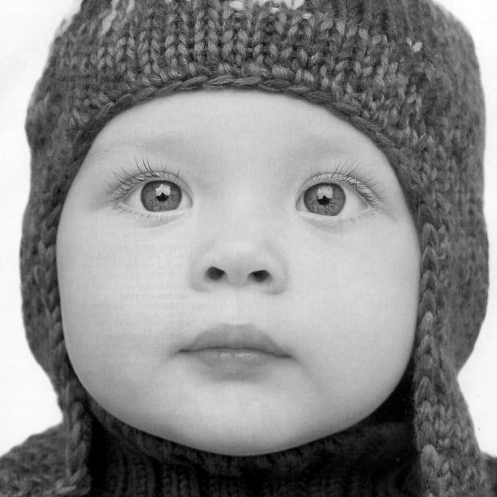
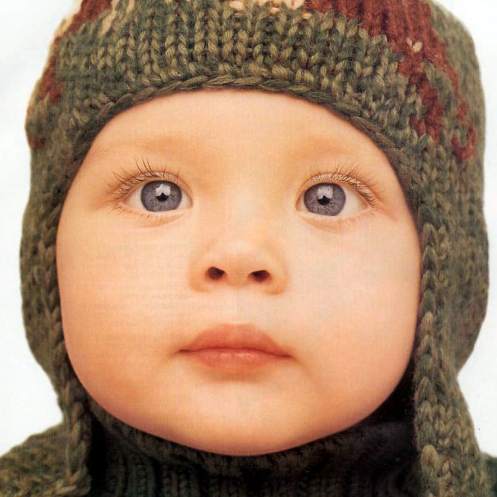
Added RGB Support. (Beta version, correcness to be veryfied.)

diff --git a/utils.py b/utils.py
@@ -8,7 +8,7 @@ import h5py
 import random
 import matplotlib.pyplot as plt
 
-from PIL import Image  # for loading images as YCbCr format
+from PIL import Image, ImageOps  # for loading images as YCbCr format
 import scipy.misc
 import scipy.ndimage
 import numpy as np
@@ -43,15 +43,25 @@ def preprocess(path, scale=3):
     input_: image applied bicubic interpolation (low-resolution)
     label_: image with original resolution (high-resolution)
   """
-  image = imread(path, is_grayscale=True)
+  image = imread(path, FLAGS.is_grayscale)
   label_ = modcrop(image, scale)
 
-  # Must be normalized
-  image = image / 255.
-  label_ = label_ / 255.
+  input_ = label_
 
-  input_ = scipy.ndimage.interpolation.zoom(label_, (1./scale), prefilter=False)
-  input_ = scipy.ndimage.interpolation.zoom(input_, (scale/1.), prefilter=False)    
+  if FLAGS.is_grayscale:
+    input_ = Image.fromarray(label_)
+    input_.thumbnail((input_.size[0]/scale, input_.size[1]/scale))
+    input_ = input_.resize((label_.shape[1], label_.shape[0]), resample=Image.BICUBIC)
+    input_ = np.array(input_.getdata(), np.uint8).reshape((label_.shape[0], label_.shape[1], 1))
+  else:
+    input_ = Image.fromarray(label_, mode='RGB')
+    input_.thumbnail((input_.size[0]/scale, input_.size[1]/scale))
+    input_ = input_.resize((label_.shape[1], label_.shape[0]), resample=Image.BICUBIC)
+    input_ = np.array(input_.getdata(), np.uint8).reshape((label_.shape[0], label_.shape[1], 3))
+
+  # Must be normalized
+  label_ = label_ / 255.
+  input_ = input_ / 255.
 
   return input_, label_
 
@@ -94,7 +104,8 @@ def imread(path, is_grayscale=True):
   if is_grayscale:
     return scipy.misc.imread(path, flatten=True, mode='YCbCr').astype(np.float)
   else:
-    return scipy.misc.imread(path, mode='YCbCr').astype(np.float)
+    # return scipy.misc.imread(path, mode='YCbCr').astype(np.float)
+    return scipy.misc.imread(path, mode = 'RGB')
 
 def modcrop(image, scale=3):
   """
@@ -135,22 +146,31 @@ def input_setup(sess, config):
     for i in xrange(len(data)):
       input_, label_ = preprocess(data[i], config.scale)
 
-      if len(input_.shape) == 3:
+      if len(input_.shape) == 3:  # RGB mode
+
         h, w, _ = input_.shape
-      else:
+        for x in range(0, h-config.image_size+1, config.stride):
+          for y in range(0, w-config.image_size+1, config.stride):
+            sub_input = input_[x:x+config.image_size, y:y+config.image_size, :] # [33 x 33]
+            sub_label = label_[x+padding:x+padding+config.label_size, y+padding:y+padding+config.label_size, :] # [21 x 21]
+
+            sub_input_sequence.append(sub_input)
+            sub_label_sequence.append(sub_label)
+
+      else:  # grayscale mode
+
         h, w = input_.shape
+        for x in range(0, h-config.image_size+1, config.stride):
+          for y in range(0, w-config.image_size+1, config.stride):
+            sub_input = input_[x:x+config.image_size, y:y+config.image_size] # [33 x 33]
+            sub_label = label_[x+padding:x+padding+config.label_size, y+padding:y+padding+config.label_size] # [21 x 21]
 
-      for x in range(0, h-config.image_size+1, config.stride):
-        for y in range(0, w-config.image_size+1, config.stride):
-          sub_input = input_[x:x+config.image_size, y:y+config.image_size] # [33 x 33]
-          sub_label = label_[x+padding:x+padding+config.label_size, y+padding:y+padding+config.label_size] # [21 x 21]
+            # Make channel value
+            sub_input = sub_input.reshape([config.image_size, config.image_size, 1])  
+            sub_label = sub_label.reshape([config.label_size, config.label_size, 1])
 
-          # Make channel value
-          sub_input = sub_input.reshape([config.image_size, config.image_size, 1])  
-          sub_label = sub_label.reshape([config.label_size, config.label_size, 1])
-
-          sub_input_sequence.append(sub_input)
-          sub_label_sequence.append(sub_label)
+            sub_input_sequence.append(sub_input)
+            sub_label_sequence.append(sub_label)
 
   else:
 
@@ -159,38 +179,63 @@ def input_setup(sess, config):
     out_input_sequence = []
     out_label_sequence = []
 
-    if len(input_.shape) == 3:
+    if len(input_.shape) == 3:  # RGB mode
       h, w, _ = input_.shape
+      # Numbers of sub-images in height and width of image are needed to compute merge operation.
+      nx = ny = 0 
+      for x in range(0, h-config.image_size+1, config.stride):
+        nx += 1; ny = 0
+        for y in range(0, w-config.image_size+1, config.stride):
+          ny += 1
+          sub_input = input_[x:x+config.image_size, y:y+config.image_size, :] # [33 x 33]
+          sub_label = label_[x+padding:x+padding+config.label_size, y+padding:y+padding+config.label_size, :] # [21 x 21]
+
+          # segement the input image in the same way as the label image, and append the segments into lists
+          out_input_sequence.append(input_[x+padding:x+padding+config.label_size, y+padding:y+padding+config.label_size, :])
+          out_label_sequence.append(sub_label)
+
+          sub_input_sequence.append(sub_input)
+          sub_label_sequence.append(sub_label)
+
+      # output original image and bicubic interpolated images
+      sample_path = os.path.join(os.getcwd(), config.sample_dir)
+      origin_path = os.path.join(sample_path, str(config.sample_num) + "-test_image(original).png")
+      out_label = merge(np.asarray(out_label_sequence), [nx, ny])
+      imsave(out_label, origin_path)
+      bicubic_path = os.path.join(sample_path, str(config.sample_num) + "-test_image(bicubic).png")
+      out_input = merge(np.asarray(out_input_sequence), [nx, ny])
+      imsave(out_input, bicubic_path)
+
     else:
       h, w = input_.shape
 
-    # Numbers of sub-images in height and width of image are needed to compute merge operation.
-    nx = ny = 0 
-    for x in range(0, h-config.image_size+1, config.stride):
-      nx += 1; ny = 0
-      for y in range(0, w-config.image_size+1, config.stride):
-        ny += 1
-        sub_input = input_[x:x+config.image_size, y:y+config.image_size] # [33 x 33]
-        sub_label = label_[x+padding:x+padding+config.label_size, y+padding:y+padding+config.label_size] # [21 x 21]
+      # Numbers of sub-images in height and width of image are needed to compute merge operation.
+      nx = ny = 0 
+      for x in range(0, h-config.image_size+1, config.stride):
+        nx += 1; ny = 0
+        for y in range(0, w-config.image_size+1, config.stride):
+          ny += 1
+          sub_input = input_[x:x+config.image_size, y:y+config.image_size] # [33 x 33]
+          sub_label = label_[x+padding:x+padding+config.label_size, y+padding:y+padding+config.label_size] # [21 x 21]
 
-        sub_input = sub_input.reshape([config.image_size, config.image_size, 1])  
-        sub_label = sub_label.reshape([config.label_size, config.label_size, 1])
+          sub_input = sub_input.reshape([config.image_size, config.image_size, 1])  
+          sub_label = sub_label.reshape([config.label_size, config.label_size, 1])
 
-        # segement the input image in the same way as the label image, and append the segments into lists
-        out_input_sequence.append(input_[x+padding:x+padding+config.label_size, y+padding:y+padding+config.label_size].reshape([config.label_size, config.label_size, 1]))
-        out_label_sequence.append(sub_label)
+          # segement the input image in the same way as the label image, and append the segments into lists
+          out_input_sequence.append(input_[x+padding:x+padding+config.label_size, y+padding:y+padding+config.label_size].reshape([config.label_size, config.label_size, 1]))
+          out_label_sequence.append(sub_label)
 
-        sub_input_sequence.append(sub_input)
-        sub_label_sequence.append(sub_label)
+          sub_input_sequence.append(sub_input)
+          sub_label_sequence.append(sub_label)
 
-    # output original image and bicubic interpolated images
-    sample_path = os.path.join(os.getcwd(), config.sample_dir)
-    origin_path = os.path.join(sample_path, str(config.sample_num) + "-test_image(original).png")
-    out_label = merge(np.asarray(out_label_sequence), [nx, ny])
-    imsave(out_label.squeeze(), origin_path)
-    bicubic_path = os.path.join(sample_path, str(config.sample_num) + "-test_image(bicubic).png")
-    out_input = merge(np.asarray(out_input_sequence), [nx, ny])
-    imsave(out_input.squeeze(), bicubic_path)
+      # output original image and bicubic interpolated images
+      sample_path = os.path.join(os.getcwd(), config.sample_dir)
+      origin_path = os.path.join(sample_path, str(config.sample_num) + "-test_image(original).png")
+      out_label = merge(np.asarray(out_label_sequence), [nx, ny])
+      imsave(out_label.squeeze(), origin_path)
+      bicubic_path = os.path.join(sample_path, str(config.sample_num) + "-test_image(bicubic).png")
+      out_input = merge(np.asarray(out_input_sequence), [nx, ny])
+      imsave(out_input.squeeze(), bicubic_path)
 
 
   """
@@ -198,8 +243,8 @@ def input_setup(sess, config):
   (sub_input_sequence[0]).shape : (33, 33, 1)
   """
   # Make list to numpy array. With this transform
-  arrdata = np.asarray(sub_input_sequence) # [?, 33, 33, 1]
-  arrlabel = np.asarray(sub_label_sequence) # [?, 21, 21, 1]
+  arrdata = np.asarray(sub_input_sequence) # [?, 33, 33, 1 or 3]
+  arrlabel = np.asarray(sub_label_sequence) # [?, 21, 21, 1 or 3]
 
   make_data(sess, arrdata, arrlabel)
 
@@ -226,8 +271,10 @@ def merge(images, size):
   nx, ny = size[0], size[1]
   stride = FLAGS.stride
   # print stride
-
   img = np.zeros((h+stride*(nx-1), w+stride*(ny-1), 1))
+  if not FLAGS.is_grayscale:
+    img = np.zeros((h+stride*(nx-1), w+stride*(ny-1), 3))
+
   for idx, image in enumerate(images):
     i = (idx / ny) * stride
     j = (idx % ny) * stride

diff --git a/model.py b/model.py
@@ -19,17 +19,17 @@ class SRCNN(object):
                image_size=33,
                label_size=21, 
                batch_size=128,
-               c_dim=1, 
+               is_grayscale = False,
                checkpoint_dir=None, 
                sample_dir=None):
 
     self.sess = sess
-    self.is_grayscale = (c_dim == 1)
+    self.is_grayscale = is_grayscale
     self.image_size = image_size
     self.label_size = label_size
     self.batch_size = batch_size
 
-    self.c_dim = c_dim
+    self.c_dim = 1 if is_grayscale else 3
 
     self.checkpoint_dir = checkpoint_dir
     self.sample_dir = sample_dir
@@ -42,20 +42,21 @@ class SRCNN(object):
     self.labels = tf.placeholder(tf.float32, [None, self.label_size, self.label_size, self.c_dim], name='labels')
     
     self.weights = {
-      'w1': tf.Variable(tf.random_normal([9, 9, 1, 64], stddev=1e-3), name='w1'),
+      'w1': tf.Variable(tf.random_normal([9, 9, self.c_dim, 64], stddev=1e-3), name='w1'),
       'w2': tf.Variable(tf.random_normal([1, 1, 64, 32], stddev=1e-3), name='w2'),
-      'w3': tf.Variable(tf.random_normal([5, 5, 32, 1], stddev=1e-3), name='w3')
+      'w3': tf.Variable(tf.random_normal([5, 5, 32, self.c_dim], stddev=1e-3), name='w3')
     }
     self.biases = {
       'b1': tf.Variable(tf.zeros([64]), name='b1'),
       'b2': tf.Variable(tf.zeros([32]), name='b2'),
-      'b3': tf.Variable(tf.zeros([1]), name='b3')
+      'b3': tf.Variable(tf.zeros([self.c_dim]), name='b3')
     }
 
     self.pred = self.model()
 
     # Loss function (MSE)
-    self.loss = tf.reduce_mean(tf.square(self.labels - self.pred))
+    # self.loss = tf.reduce_mean(tf.square(self.labels - self.pred))
+    self.loss = tf.losses.mean_squared_error(self.labels, self.pred)
 
     self.saver = tf.train.Saver()
 
@@ -103,8 +104,8 @@ class SRCNN(object):
           if counter % 10 == 0:
             print("Epoch: [%2d], step: [%2d], time: [%4.4f], loss: [%.8f]" \
               % (self.epoch_num+1, counter, time.time()-start_time, err))
-
-        self.save(config.checkpoint_dir, self.epoch_num)
+        if self.epoch_num % 10 == 0:
+          self.save(config.checkpoint_dir, self.epoch_num)
         self.epoch_num += 1
 
     else:
@@ -112,7 +113,10 @@ class SRCNN(object):
       result = self.pred.eval({self.images: train_data, self.labels: train_label})
       result = merge(result, [nx, ny])
       # print "Before squeeze", result.shape
-      result = result.squeeze()
+      if config.is_grayscale:
+        result = result.squeeze()
+      # else:
+      #   result *= 255
       # print "After squeeze", result.shape
       image_path = os.path.join(os.getcwd(), config.sample_dir)
       image_path = os.path.join(image_path, str(config.sample_num) + "-test_image.png")

diff --git a/sample/compute_psnr.py b/sample/compute_psnr.py
@@ -1,20 +1,19 @@
 from scipy import misc
 from skimage.measure import compare_psnr
+import argparse
 
-def compute_psnr():
+def compute_psnr(is_grayscale):
 	for i in range(5):
-		# read image
-		ori_image = misc.imread(str(i)+"-test_image(original).png")
-		bic_image = misc.imread(str(i)+"-test_image(bicubic).png")
-		res_image = misc.imread(str(i)+"-test_image.png")
-
-		# crop original image
-		ori_h, ori_w = ori_image.shape
-		res_h, res_w = res_image.shape
-		margin_h = (ori_h - res_h) // 2
-		margin_w = (ori_w - res_w) // 2
-		ori_image = ori_image[margin_h:res_h+margin_h, margin_w:res_w+margin_w]
-		bic_image = bic_image[margin_h:res_h+margin_h, margin_w:res_w+margin_w]
+		if is_grayscale:
+			# read image in grayscale
+			ori_image = misc.imread(str(i)+"-test_image(original).png")
+			bic_image = misc.imread(str(i)+"-test_image(bicubic).png")
+			res_image = misc.imread(str(i)+"-test_image.png")
+		else:
+			# read image in RGB
+			ori_image = misc.imread(str(i)+"-test_image(original).png", mode='RGB')
+			bic_image = misc.imread(str(i)+"-test_image(bicubic).png", mode='RGB')
+			res_image = misc.imread(str(i)+"-test_image.png", mode='RGB')
 
 		# compute psnr and print
 		print "For Image %d: " % (i)
@@ -22,4 +21,7 @@ def compute_psnr():
 		print "PSNR between Original and Result Image: %f" % (compare_psnr(ori_image, res_image))
 
 if __name__ == '__main__':
-	compute_psnr()
+	parser = argparse.ArgumentParser(description='Compute the PSNR between original images and bicubic interpolated images, as well as between original images and test images.')
+	parser.add_argument('--is_grayscale', default=False, type=bool)
+	args = parser.parse_args()
+	compute_psnr(args.is_grayscale)

diff --git a/main.py b/main.py
@@ -13,7 +13,8 @@ flags.DEFINE_integer("batch_size", 128, "The size of batch images [128]")
 flags.DEFINE_integer("image_size", 33, "The size of image to use [33]")
 flags.DEFINE_integer("label_size", 21, "The size of label to produce [21]")
 flags.DEFINE_float("learning_rate", 1e-4, "The learning rate of gradient descent algorithm [1e-4]")
-flags.DEFINE_integer("c_dim", 1, "Dimension of image color. [1]")
+# flags.DEFINE_integer("c_dim", 1, "Dimension of image color. [1]")
+flags.DEFINE_boolean("is_grayscale", True , "True for grayscale mode, False for RGB mode. [1]")
 flags.DEFINE_integer("scale", 3, "The size of scale factor for preprocessing input image [3]")
 flags.DEFINE_integer("stride", 14, "The size of stride to apply input image [14]")
 flags.DEFINE_string("checkpoint_dir", "checkpoint", "Name of checkpoint directory [checkpoint]")
@@ -37,7 +38,7 @@ def main(_):
                   image_size=FLAGS.image_size, 
                   label_size=FLAGS.label_size, 
                   batch_size=FLAGS.batch_size,
-                  c_dim=FLAGS.c_dim, 
+                  is_grayscale = FLAGS.is_grayscale,
                   checkpoint_dir=FLAGS.checkpoint_dir,
                   sample_dir=FLAGS.sample_dir)
 
